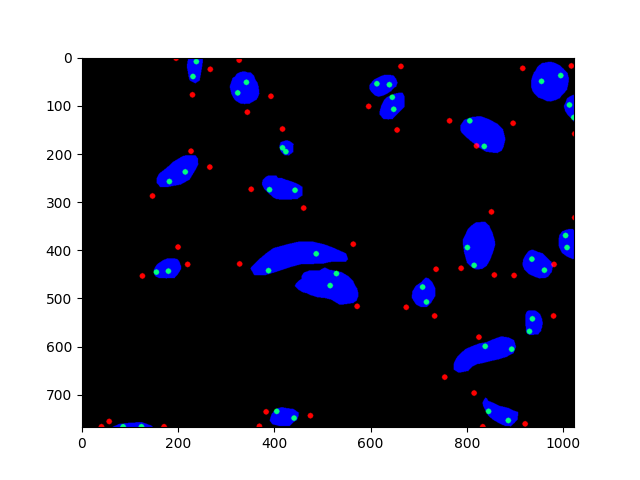
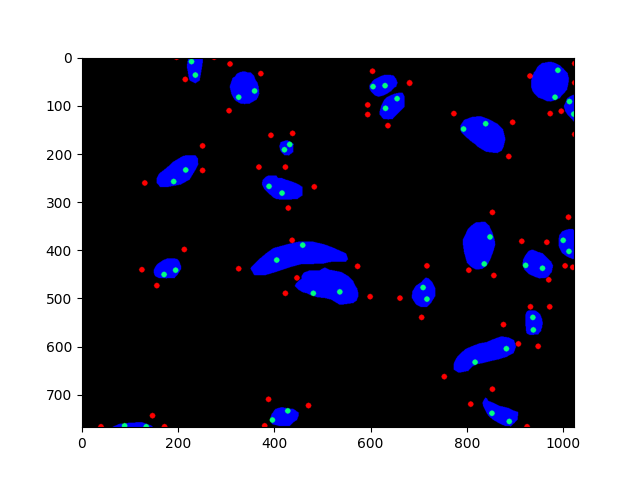
change the inv label creation system, add temporary fix with an  error print in generatorM gen_click_random_uniform_advanced

diff --git a/exampleM.py b/exampleM.py
@@ -14,9 +14,13 @@ def example_2d(export=False):
     dense_label_2d = tifffile.imread('VREMS-data/lucchi/label.tif')[0] > 0
     print(dense_label_2d.shape, dense_label_2d.min(), dense_label_2d.max(), dense_label_2d.dtype)
 
-    gen_pos = generatorM.gen_click_random_uniform_advanced(skimage.measure.label(dense_label_2d), click=2, d_step=25, d_margin=5)
-    dense_label_2d_inv = np.logical_and(dense_label_2d == 0, edt.edt(np.abs(1 - dense_label_2d)) < 25)
-    gen_neg = generatorM.gen_click_around_border(skimage.measure.label(dense_label_2d_inv), click=3, max_border_distance=np.inf)
+    dense_labels_2d = skimage.measure.label(dense_label_2d)
+    gen_pos = generatorM.gen_click_random_uniform_advanced(dense_labels_2d, click=2, d_step=25, d_margin=5)
+    dense_label_2d_inv = dense_labels_2d
+    for _ in range(5):
+        dense_label_2d_inv = skimage.morphology.dilation(dense_label_2d_inv, skimage.morphology.disk(5))
+    dense_label_2d_inv = np.where(skimage.morphology.dilation(dense_label_2d, skimage.morphology.disk(5)), 0, dense_label_2d_inv)
+    gen_neg = generatorM.gen_click_around_border(dense_label_2d_inv, click=3, max_border_distance=np.inf)
 
     pos_click_map, _ = next(gen_pos)
     neg_click_map, _ = next(gen_neg)
@@ -35,9 +39,13 @@ def example_3d(export=False):
     print(dense_label_3d.shape, dense_label_3d.min(), dense_label_3d.max(), dense_label_3d.dtype)
     # utils.show_stack(dense_label_3d, cmap="gray")
 
-    gen_pos = generatorM.gen_click_random_uniform_advanced(skimage.measure.label(dense_label_3d), click=3, d_step=25, d_margin=None)
-    dense_label_3d_inv = np.logical_and(dense_label_3d == 0, edt.edt(np.abs(1 - dense_label_3d)) < 25)
-    gen_neg = generatorM.gen_click_around_border(skimage.measure.label(dense_label_3d_inv), click=7, max_border_distance=np.inf)
+    dense_labels_3d = skimage.measure.label(dense_label_3d)
+    gen_pos = generatorM.gen_click_random_uniform_advanced(dense_labels_3d, click=3, d_step=25, d_margin=5)
+    dense_label_3d_inv = dense_labels_3d
+    for _ in range(8):
+        dense_label_3d_inv = skimage.morphology.dilation(dense_label_3d_inv, skimage.morphology.ball(2))
+    dense_label_3d_inv = np.where(skimage.morphology.dilation(dense_label_3d, skimage.morphology.ball(2)), 0, dense_label_3d_inv)
+    gen_neg = generatorM.gen_click_around_border(dense_label_3d_inv, click=5, max_border_distance=np.inf)
 
     pos_click_map, _ = next(gen_pos)
     neg_click_map, _ = next(gen_neg)

diff --git a/generatorM.py b/generatorM.py
@@ -63,6 +63,10 @@ def gen_click_random_uniform_advanced(label, label_dt=None, click=5, d_step=10, 
                 if len(label_coord_) == 0:
                     label_coord_ = np.copy(label_coord[i])
 
+                if len(label_coord_) == 0:
+                    print('error empty label_coord_', i, len(label_coord_))
+                    continue
+
                 coord = tuple(label_coord_[random.randint(0, len(label_coord_)-1)])
                 click_map[coord] = 1
                 click_pos.append(coord)
